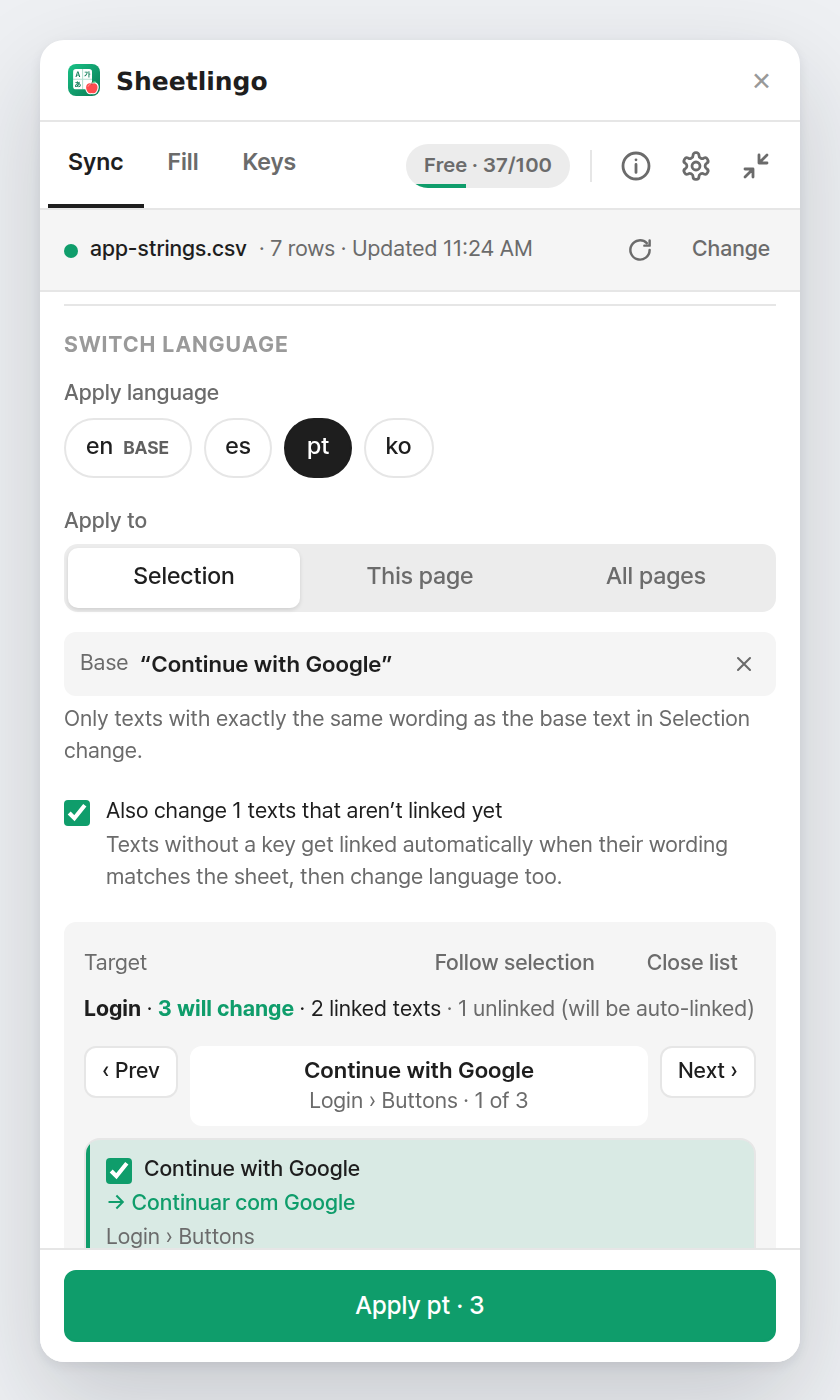
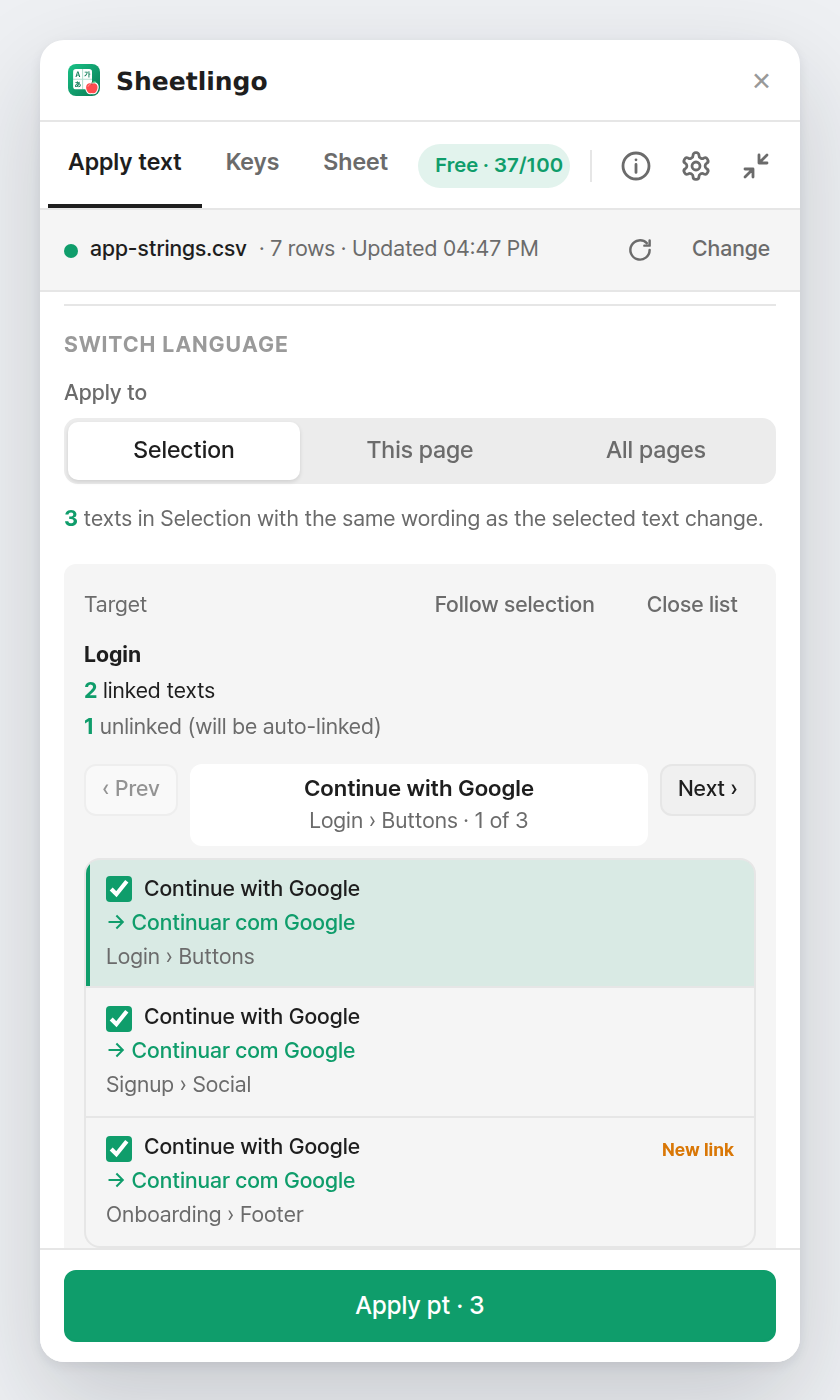
v0.7.0: new README, listing copy and images
- README rewritten for the Apply text / Keys / Sheet tabs, new screenshots
  (keys by usage, where-used stepper, sheet tab), matching and linking rules
- Listing description and v0.7.0 version notes; carousel images regenerated
- Version 0.7.0

Claude-Session: https://claude.ai/code/session_0164kmcS3BnYsCfXHtwe3qKr

diff --git a/README.md b/README.md
@@ -34,13 +34,15 @@ Every glyph is drawn as a vector path, so the icon looks identical everywhere, w
 
 ## Features
 
-### 1. Connect any sheet
+Sheetlingo has three tabs: **Apply text**, **Keys** and **Sheet**. Options live behind ⚙.
 
-<p align="center"><img src="docs/screenshots/01-connect.png" width="380" /></p>
+### 1. Connect any sheet (Sheet tab)
+
+<p align="center"><img src="docs/screenshots/11-sheet.png" width="380" /></p>
 
 Paste a **Google Sheets** link, drop a **CSV** file, or **paste cells** straight from Excel or Numbers.
 Private and company sheets work too: **Sign in with Google** and pick the file in Google's own picker, no link sharing needed.
-Access is checked immediately, and new users can start with sample data in one click.
+Re-upload a CSV (or switch sheets) and the new values are applied to every linked text in the file right away.
 
 ### 2. Map your columns
 
@@ -49,43 +51,45 @@ Access is checked immediately, and new users can start with sample data in one c
 Choose which row holds the column names (it doesn't have to be row 1), then mark each column as **Key**, **Language** or **Skip** while seeing a sample value.
 ★ marks the base language; empty translations fall back to it.
 
-### 3. Link a text to its key
+### 3. Link a text to its key (Apply text tab)
 
 <p align="center"><img src="docs/screenshots/03-link.png" width="380" /></p>
 
-Select a text layer and Sheetlingo suggests the keys whose wording matches. Search by key or by any language, preview every translation, then **Link & apply**.
-The base text stays pinned, so you can click a frame afterwards and every **identical** text inside it is linked at once.
+Three steps in one box: **① the selected text** (shown in full) → **② the key** → **③ the language**.
+Only keys whose value is **exactly** the selected wording are suggested; search by key or any language for the rest.
+The text stays pinned, so you can then click a frame and every **identical** text inside it is linked too.
+Select a frame to see every text inside it, linked or not.
 Edit a linked text by hand and it unlinks itself, so your manual change is never overwritten.
 
 ### 4. Switch languages, exactly where you want
 
 <p align="center"><img src="docs/screenshots/04-apply.png" width="380" /></p>
 
-Pick a language and apply it to the **selection**, **this page** or **all pages**.
-Before anything changes you see **how many layers will change**, where each one lives (`Login › Buttons`) and its new value (`→ Continuar com Google`).
-Step through them with **Prev / Next** to jump on the canvas, or uncheck any to leave it alone. Only texts with exactly the same wording change.
-After applying, a report lists missing keys, fallbacks, missing fonts and text that overflows its box.
+Apply to the **selection**, **this page** or **all pages**. Only texts with exactly the same wording as the selected text change.
+Before anything changes you see how many layers will change, where each one lives (`Login › Buttons`) and its new value; texts that already match are left unchecked.
+Pressing Apply shows a short confirmation, a progress bar for big files, and a result:
 
-### 5. Keys
+- Changed 2 to pt
+- 1 already matched, left as is
+- Linked 1 to the key
 
-<p align="center"><img src="docs/screenshots/05-keys.png" width="380" /></p>
+Missing fonts and locked layers are reported as **failures**, with the font you need to install. Nothing is half-linked.
 
-Browse every key in the sheet with highlighted search. Click a key to link the selected texts, **auto-link** a whole page by exact wording, or **extract** an existing design into `key,language` rows to start your sheet.
+### 5. Keys: where is this key used?
 
-### 6. Fill designs with real data
+<p align="center"><img src="docs/screenshots/05-keys.png" width="300" /> <img src="docs/screenshots/06-usage.png" width="300" /></p>
 
-<p align="center"><img src="docs/screenshots/06-fill.png" width="380" /></p>
+The Keys tab lists the keys linked on this page, **most used first** (`3 used`). Search to find any key in the sheet.
+Click a key to see every place it is used and step through them with **Prev / Next** on the canvas.
 
-No keys needed: fill a column into the selected text layers in reading order, or fill **cards** row by row, with layer names matched to column names. Great for lists, tables and realistic mockups.
-
-### 7. Live sync
+### 6. Live sync
 
 <p align="center"><img src="docs/screenshots/08-live-bar.png" width="340" /></p>
 
-Minimize Sheetlingo to a small bar while you work. Sheet edits flow into Figma automatically, and the status dot stays green while connected and gently flashes when something syncs.
-You can also re-sync from Figma's right panel without opening the plugin.
+With a Google sheet connected, Sheetlingo checks for edits while the plugin is open (private sheets every 10 s, public links every 60 s) and applies them to the page.
+Minimize it to a small bar while you work; the green dot flashes when something syncs. You can also re-sync from Figma's right panel without opening the plugin.
 
-### 8. Simple pricing
+### 7. Simple pricing
 
 <p align="center"><img src="docs/screenshots/07-plans.png" width="380" /></p>
 
@@ -95,11 +99,11 @@ You can also re-sync from Figma's right panel without opening the plugin.
 | Every feature | ✓ | ✓ |
 | Price | $0 | $4 / month or $36 / year (25% off) |
 
-If Pro ends, nothing is deleted: links and texts stay, export and unlink keep working, and only files over 100 keys pause until renewal.
+Only links to keys that exist in the connected sheet count. If Pro ends, nothing is deleted: links and texts stay, and only files over 100 keys pause until renewal.
 
 Each tab also has an **ⓘ** button that explains what it does in two lines.
 
-### 9. Light and dark
+### 8. Light and dark
 
 <p align="center"><img src="docs/screenshots/03-link.png" width="300" /> <img src="docs/screenshots/10-link-dark.png" width="300" /></p>
 
@@ -129,16 +133,19 @@ The UI loads and parses the sheet, the main thread finds and edits text layers, 
 
 | What | Where | Who sees it |
 |---|---|---|
-| Key, language and fill links on each text layer | `sharedPluginData` (namespace `sheetlingo`) in the Figma file | Anyone with the file |
+| Key, language and written-text stamp on each text layer | `sharedPluginData` (namespace `sheetlingo`) in the Figma file | Anyone with the file |
 | Sheet source, column mapping, current language | Document root `sharedPluginData` | Anyone with the file |
 | Linked-key registry (for the Free limit) | Document root, updated incrementally | Anyone with the file |
 | Cached sheet, UI language, window size, Google tokens | `figma.clientStorage` | Only this user on this computer |
 
-**Matching rules.** Linking and switching use **exact normalized wording** only (whitespace and case folded, optional inline tags stripped), so a similar but different text is never touched.
-A frame or page scope combined with a base text changes only identical texts; texts linked to another key are relinked, and same-key texts whose wording was edited are left alone.
+**Matching rules.** Linking, suggestions and switching use **exact normalized wording** only (whitespace and case folded, optional inline tags stripped), so a similar but different text is never touched.
+A frame or page scope changes only texts identical to the selected one; texts linked to another key are relinked, and same-key texts whose wording was edited are left alone.
+
+**What counts as linked.** Only a link Sheetlingo made (`sharedPluginData`) to a key that exists in the connected sheet. Layer names such as `#nav.title` are a designer's own naming and are ignored.
+Each link stamps the wording it wrote, so a hand edit (even one made while the plugin was closed) is detected and unlinks that text only.
 
 **Performance.** Scans are scoped to the selection or page and use `findAllWithCriteria`. Counting keys across a whole file is never done automatically (it froze big files), only through an explicit *Recount*.
-Fonts are loaded once per family and missing fonts are reported per layer instead of failing the run.
+Applying reports progress and yields to Figma every 40 layers. Fonts are loaded once per family; a layer whose font is missing is reported as failed and its link is rolled back.
 
 **Google sign-in for private sheets.** A small Cloudflare Worker ([`server/`](server/README.md)) runs the OAuth code flow and Google Picker on `sheetlingo-auth.efforthye.workers.dev`.
 It requests only `drive.file` (files the user picks), `openid` and `email`. The refresh token is sealed with AES-GCM before it leaves the Worker and is stored only on the user's machine; the Worker keeps a sign-in result in KV for at most 10 minutes.
@@ -155,8 +162,8 @@ Private sheets check Drive `modifiedTime` every 10 s and download only when it c
 ```
 src/
   shared/      message types, limits & price, sheet → dictionary, exact-text matcher
-  code/        main thread: sync, link, fill, extract, edit watcher, key registry, payments
-  ui/          React UI: views, key picker, Google sign-in, sheet loading, mini bar
+  code/        main thread: sync, link, key usage, edit watcher, key registry, payments
+  ui/          React UI: Apply text / Keys / Sheet tabs, key picker, Google sign-in, mini bar
   ui/locales   en · ko · ja · zh-CN · es · fr · de
 server/        Cloudflare Worker: OAuth, Picker, home / privacy / terms pages
 docs/          listing copy & images, plan, testing checklist, screenshots, sample CSVs

diff --git a/docs/LISTING.md b/docs/LISTING.md
@@ -19,6 +19,13 @@
 - A paid plugin can never be switched back to free. Price increases: at most 50%, once every 30 days.
 - The code checks `figma.payments.status.type === 'PAID'` for Pro and calls `initiateCheckoutAsync` for the upgrade button. `src/shared/constants.ts` `PRICE` is display text only, so keep it equal to what you set in the form.
 
+## Publishing a new version
+
+1. `sheetlingo install` (production build; check ⚙ for the version and build time).
+2. Figma desktop → Plugins → Development → Manage plugins in development → Sheetlingo → **Publish new version**.
+3. Paste the version notes below, replace the description and the carousel images with the files in `docs/listing/`, submit.
+4. If the first version is still **In review**, Figma may not allow a new version until it's approved; publish right after approval.
+
 ## Steps
 
 1. Build the production version in WSL: `sheetlingo install` (or `npm run build`). Never publish the `npm run watch` build: it contains the dev plan switcher.
@@ -49,26 +56,25 @@ Link Figma text to keys from Google Sheets, CSV or Excel and switch languages in
 Sheetlingo keeps every word of your design in a spreadsheet: Google Sheets, a CSV file, or cells pasted from Excel or Numbers. Link text layers to keys, switch the whole design to another language in one click, and pick up sheet edits automatically. No more copy and paste.
 
 HOW IT WORKS
-1. Connect a Google Sheet, a CSV file or pasted cells. One column for keys, one column per language.
-2. Select a text layer and pick its key. Identical texts in the frame are linked for you.
+1. Sheet tab: connect a Google Sheet, a CSV file or pasted cells. One column for keys, one column per language.
+2. Apply text tab: select a text layer and pick its key. Keys with exactly the same wording are suggested, and identical texts in the frame are linked for you.
 3. Pick a language and apply it to the selection, the page or the whole file.
 
 SWITCH LANGUAGES SAFELY
 • See how many layers will change before you apply, and step through them on the canvas
 • Only texts with exactly the same wording change, so nothing gets overwritten by accident
-• Missing translations fall back to the base language
-• Overflow check flags text that no longer fits its box
+• A clear result: what changed, what already matched, what got linked
+• Missing fonts and locked layers are reported as failures, never half-applied
+• Missing translations fall back to the base language; overflow check flags text that no longer fits
+
+KEYS
+• See the keys used on the page, most used first
+• Click a key and step through every place it is used with Prev / Next
 
 STAY IN SYNC
-• Live sync: sheet edits flow into Figma while the plugin is open (minimized bar shows the last sync)
-• Re-sync from the right panel without opening the plugin
+• Live sync: Google Sheet edits flow into Figma while the plugin is open (minimized bar shows the last sync)
+• Re-upload a CSV and the new values are applied to every linked text in the file
 • Editing a linked text by hand unlinks it, so your manual change is kept
-
-MORE
-• Fill: put spreadsheet rows into text layers or cards in reading order
-• Keys: browse every key in the sheet, link the selected texts with one click, or auto-link a whole page
-• After each apply, a report lists missing keys, fallbacks and missing fonts, and jumps to the layer
-• Export the texts of an existing design to CSV to start your sheet
 • Plugin UI in English, 한국어, 日本語, 简体中文, Español, Français, Deutsch
 
 PRIVATE AND COMPANY SHEETS
@@ -94,13 +100,26 @@ Reads the Google Sheet the user connects (public CSV export or Google Sheets API
 - Stored: only on the user's device (Figma clientStorage). The auth server keeps a sign-in result for 10 minutes.
 - Not sold, not shared, not used for ads or AI training.
 
+## Version notes (v0.7.0)
+
+Paste into "What's new" when publishing the new version:
+```
+• New tabs: Apply text · Keys · Sheet. Settings now hold options only
+• Keys tab shows the keys used on this page (most used first) and steps through every place a key is used
+• Key suggestions show exact matches only
+• Clear results: changed / already matched / linked; missing fonts are reported as failures
+• Only links to keys in the connected sheet count toward the key limit
+• Re-uploading a CSV applies the new values to every linked text; live sync is on by default for Google Sheets
+• Removed: Fill, Auto-link and Extract
+```
+
 ## Images (`docs/listing/`)
 
 | File | Use |
 |---|---|
 | `docs/assets/icon-128.png` | Icon (128 × 128) |
 | `00-cover.png` | Thumbnail / cover (1920 × 1080) |
-| `01-link.png` … `06-dark.png` | Carousel, in this order: 01-link, 02-switch, 03-connect, 04-keys, 06-dark, 05-plans |
+| `01-link.png` … `06-dark.png` | Carousel, in this order: 01-link, 02-switch, 03-connect, 04-keys, 06-dark, 05-plans (regenerated for v0.7.0) |
 
 ## After launch
 
